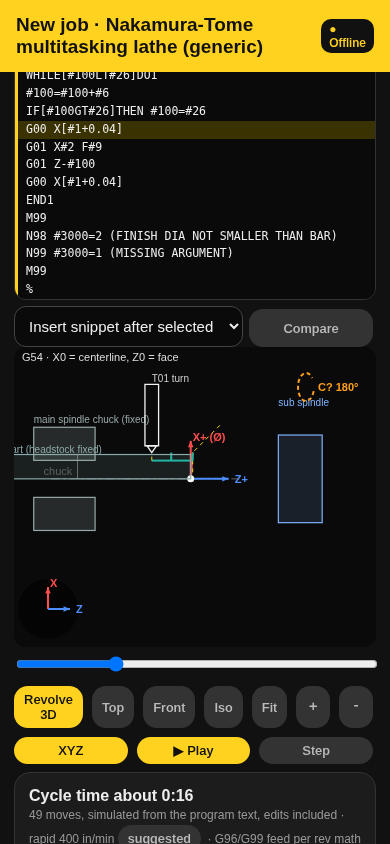
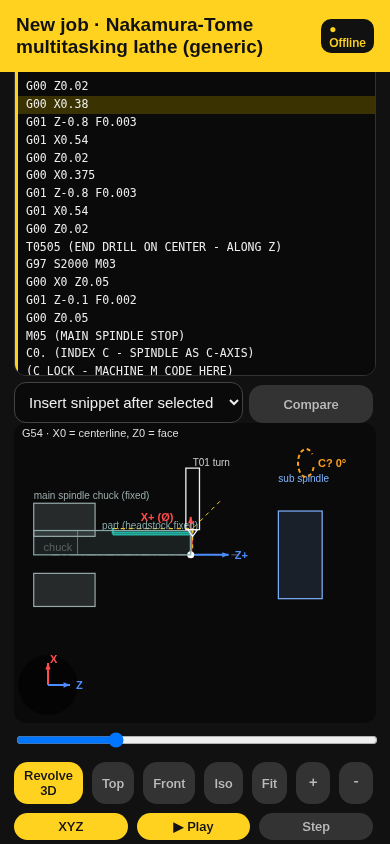
Round 15: NT full-length roughing, own buttons, chuck grip, X+ label off sub spindle, ui-test11, shots 37/38/40

Changed region(s): [[0.0308, 0.0616, 0.9846, 0.7393], [0.0308, 0.7701, 0.9846, 1.0], [0.8, 0.2773, 0.8615, 0.3081]]

diff --git a/index.html b/index.html
@@ -70,7 +70,7 @@ function parse(t){t=t.toLowerCase().replace(/\b(one|two|three|four|five|six|seve
  return{op,p,text:t}}
 const OPN={bolt:'Bolt circle',grid:'Hole grid',face:'Face mill',lturn:'OD turn',lface:'Lathe face',lgroove:'OD groove',ldrill:'Center drill'};
 function nw(){$('#ttl').textContent='New job · '+(S.m[S.cur]||{name:'?'}).name;
-V.innerHTML=`<textarea id="q" rows="3" placeholder="${isL()?'e.g. G54 T1 turn 2.0 bar to 1.5 dia 3 long z0 0':'e.g. G54 T2 6 hole bolt circle 3.0 dia center x0 y0 z0 0 start 15 0.5 deep peck'}">${J?J.text:''}</textarea><div class="row" style="margin-top:6px">${isSw()?`<button class="chip y" onclick="ex('G54 swiss turn 0.5 bar to 0.375 dia 0.8 long z0 0 flat 0.05 deep 0.3 long cross drill 0.125 at z-0.55 0.15 deep center drill 0.1 deep part off 0.062')">Combined sample</button><button class="chip gr" onclick="ex('G54 swiss turn 0.5 bar to 0.375 dia 0.8 long z0 0 part off 0.062')">Turn + part-off</button>`:isL()?`<button class="chip gr" onclick="ex('G54 T1 turn 2.0 bar to 1.5 dia 3 long z0 0 chamfer 0.03')">OD turn</button><button class="chip gr" onclick="ex('G54 T1 face 0.05 off 2.0 bar z0 0')">Face</button><button class="chip gr" onclick="ex('G54 T3 groove 0.25 wide 0.1 deep at z-1.0 2.0 bar insert 0.125 z0 0')">Groove</button><button class="chip gr" onclick="ex('G54 T5 center drill 0.5 deep peck 0.1 z0 0')">Drill</button>`:`<button class="chip gr" onclick="ex('G54 T2 6 hole bolt circle 3.0 dia center x0 y0 z0 0 start 15 0.5 deep peck 0.1')">Bolt circle</button><button class="chip gr" onclick="ex('G54 T2 3 x 4 grid 0.75 spacing start x0 y0 z0 0 0.4 deep drill')">Grid</button><button class="chip gr" onclick="ex('G54 T6 rigid tap 1/4-20 4 hole bolt circle 2.0 dia center x0 y0 z0 0 start 45 0.5 deep 600 rpm')">Tap</button><button class="chip gr" onclick="ex('G54 T2 index 4 faces hole x1.0 y0 z0 0.75 0.3 deep drill')">4th axis</button><button class="chip gr" onclick="ex('G54 T20 probe bore 2.0 dia center x0 y0 probe z -0.25 tip 0.157 write to g55')">Probe</button><button class="chip gr" onclick="ex('G54 T1 face 4 x 3 with 2 cutter take off 0.06 stepdown 0.02 stepover 70 z0 0')">Face</button>`}</div><button class="btn" onclick="go()">Make my macro</button><div id="out"></div>`}
+V.innerHTML=`<textarea id="q" rows="3" placeholder="${isL()?'e.g. G54 T1 turn 2.0 bar to 1.5 dia 3 long z0 0':'e.g. G54 T2 6 hole bolt circle 3.0 dia center x0 y0 z0 0 start 15 0.5 deep peck'}">${J?J.text:''}</textarea><div class="row" style="margin-top:6px">${isNT()?`<button class="chip y" onclick="ex('G54 multitask turn 1.0 bar to 0.75 dia 1.5 long z0 0 flat 0.08 deep 0.5 long cross drill 0.25 at z-1.0 0.2 deep center drill 0.2 deep part off 0.125')">Multitask sample</button><button class="chip gr" onclick="ex('G54 multitask turn 1.0 bar to 0.75 dia 1.5 long z0 0 part off 0.125')">Turn + transfer</button>`:isSw()?`<button class="chip y" onclick="ex('G54 swiss turn 0.5 bar to 0.375 dia 0.8 long z0 0 flat 0.05 deep 0.3 long cross drill 0.125 at z-0.55 0.15 deep center drill 0.1 deep part off 0.062')">Combined sample</button><button class="chip gr" onclick="ex('G54 swiss turn 0.5 bar to 0.375 dia 0.8 long z0 0 part off 0.062')">Turn + part-off</button>`:isL()?`<button class="chip gr" onclick="ex('G54 T1 turn 2.0 bar to 1.5 dia 3 long z0 0 chamfer 0.03')">OD turn</button><button class="chip gr" onclick="ex('G54 T1 face 0.05 off 2.0 bar z0 0')">Face</button><button class="chip gr" onclick="ex('G54 T3 groove 0.25 wide 0.1 deep at z-1.0 2.0 bar insert 0.125 z0 0')">Groove</button><button class="chip gr" onclick="ex('G54 T5 center drill 0.5 deep peck 0.1 z0 0')">Drill</button>`:`<button class="chip gr" onclick="ex('G54 T2 6 hole bolt circle 3.0 dia center x0 y0 z0 0 start 15 0.5 deep peck 0.1')">Bolt circle</button><button class="chip gr" onclick="ex('G54 T2 3 x 4 grid 0.75 spacing start x0 y0 z0 0 0.4 deep drill')">Grid</button><button class="chip gr" onclick="ex('G54 T6 rigid tap 1/4-20 4 hole bolt circle 2.0 dia center x0 y0 z0 0 start 45 0.5 deep 600 rpm')">Tap</button><button class="chip gr" onclick="ex('G54 T2 index 4 faces hole x1.0 y0 z0 0.75 0.3 deep drill')">4th axis</button><button class="chip gr" onclick="ex('G54 T20 probe bore 2.0 dia center x0 y0 probe z -0.25 tip 0.157 write to g55')">Probe</button><button class="chip gr" onclick="ex('G54 T1 face 4 x 3 with 2 cutter take off 0.06 stepdown 0.02 stepover 70 z0 0')">Face</button>`}</div><button class="btn" onclick="go()">Make my macro</button><div id="out"></div>`}
 function ex(s){$('#q').value=s;go()}
 function go(){const j=req((isL()?parseL:parse)($('#q').value));if(!j){$('#out').innerHTML=`<div class="ok bad">${isL()?'Try “turn”, “face”, “groove”, or “center drill”.':'Try “bolt circle”, “grid”, or “face mill”.'}</div>`;return}J={...j,date:Date.now(),edits:{}};show()}
 function esc(s){return s.replace(/&/g,'&amp;').replace(/</g,'&lt;')}
@@ -575,7 +575,7 @@ const C3={X:'#ff4d4d',Y:'#3ddc84',Z:'#4d8dff'};
 const _draw7=draw;draw=function(){_draw7();if(!J||!cv)return;const flat=J.lathe&&!view.rev,o=origin();
  const sc=(J.lathe&&flat?view.fs:view.s)||40,len=Math.max(0.3,38/sc);
  if(!view.hideTriad){
-  if(flat){arrow([0,0,o[2]],[len,0,o[2]],C3.X,'X+ (Ø)');arrow([0,0,o[2]],[0,0,o[2]+len],C3.Z,'Z+')}
+  if(flat){arrow([0,0,o[2]],[len,0,o[2]],C3.X,J.swiss?'':'X+ (Ø)');if(J.swiss){const q=P([len,0,o[2]]);ctx.fillStyle=C3.X;ctx.font='bold 11px -apple-system,sans-serif';ctx.fillText('X+ (Ø)',q[0]-50,q[1]+4)};arrow([0,0,o[2]],[0,0,o[2]+len],C3.Z,'Z+')}
   else if(J.lathe){arrow([0,0,o[2]],[len,0,o[2]],C3.X,'X+');arrow([0,0,o[2]],[0,len,o[2]],C3.Y,'Y+');arrow([0,0,o[2]],[0,0,o[2]+len],C3.Z,'Z+')}
   else{arrow(o,[o[0]+len,o[1],o[2]],C3.X,'X+');arrow(o,[o[0],o[1]+len,o[2]],C3.Y,'Y+');arrow(o,[o[0],o[1],o[2]+len],C3.Z,'Z+')}
   const q=P(J.lathe?[0,0,o[2]]:o);ctx.fillStyle='#fff';ctx.beginPath();ctx.arc(q[0],q[1],3.5,0,7);ctx.fill();
@@ -707,7 +707,7 @@ function sw2(){const M=J.M||[],n=Math.min(view.n,M.length),m=M[n-1],t=m?m.b:[J.l
  const box=(r0,r1,z0,z1,c,f)=>{ctx.strokeStyle=c;ctx.fillStyle=f;const a=P([r0,0,z0]),b=P([r1,0,z1]);const x=Math.min(a[0],b[0]),y=Math.min(a[1],b[1]),w=Math.abs(b[0]-a[0]),h=Math.abs(b[1]-a[1]);ctx.fillRect(x,y,w,h);ctx.strokeRect(x,y,w,h)};
  const lab=(p,s,c)=>{const q=P(p);ctx.fillStyle=c;ctx.font='10px -apple-system,sans-serif';ctx.fillText(s,q[0],q[1])};
  ctx.setLineDash([]);ctx.lineWidth=1.2;
- if(flat){const L=(J.p.Length||{v:1}).v;box(0,R,-L-1.2,0,'#8aa','#8aa2');lab([R+0.02,0,-L-1.1],J.nt?'part (headstock fixed)':'bar (slides in Z)','#8aa');
+ if(flat){const L=(J.p.Length||{v:1}).v;J.nt?(box(0,R,-J.lb.L-0.45,0,'#8aa','#8aa2'),lab([R+0.02,0,-J.lb.L+0.25],'part (headstock fixed)','#8aa')):(box(0,R,-L-1.2,0,'#8aa','#8aa2'),lab([R+0.02,0,-L-1.1],'bar (slides in Z)','#8aa'));
   if(J.nt){const Lc=J.lb.L;box(R-0.06,R+0.28,-Lc-0.45,-Lc+0.18,'#9aa','#9aa3');box(-R-0.28,-R+0.06,-Lc-0.45,-Lc+0.18,'#9aa','#9aa3');lab([R+0.32,0,-Lc-0.45],'main spindle chuck (fixed)','#9aa')}else{box(R+0.01,R+0.3,zb-0.35,zb,'#c9a227','#c9a22733');box(-R-0.3,-R-0.01,zb-0.35,zb,'#c9a227','#c9a22733');lab([R+0.34,0,zb-0.35],'guide bushing (fixed)','#c9a227');
   }const sub=sv('Sub spindle');if(sub&&!/^no|^none|^0/i.test(String(sub.v))){const tt0=swTool(m?m.l:0),zs=tt0==2?0.02:J.nt?0.9:Math.max(0.6,t[2]+0.6);box(-R-0.2,R+0.2,zs,zs+0.45,'#7fb3ff','#7fb3ff22');lab([R+0.5,0,zs],'sub spindle'+(tt0==2?' (pick-off)':''),'#7fb3ff')}}
  const tt=swTool(m?m.l:0);ctx.strokeStyle='#f2f2f2';ctx.lineWidth=1.3;const o=(dr,dz)=>[t[0]+dr,0,t[2]+dz];
@@ -726,11 +726,13 @@ function sw2(){const M=J.M||[],n=Math.min(view.n,M.length),m=M[n-1],t=m?m.b:[J.l
 PRESETS['Multitasking lathes']=['Nakamura-Tome multitasking lathe (generic)'];
 const NTS=[['C-axis','yes',1],['Y-axis','yes',1],['Live tools','yes',1],['Live tool M-code','M51 (check manual)',1],['Sub spindle','yes',1],['Turrets','1 upper (check)',1]];
 const _pick14=pick;pick=function(n,g){if(g=='Multitasking lathes'){S.m.push(mk(n,'multitasking lathe'));const m=S.m.at(-1);NTS.forEach(([k,v,c])=>m.s.push({k,v,st:c?'confirm':'suggested'}));m.opt={macroB:1};m.tools=JSON.parse(JSON.stringify((S.m[0]||{}).tools||[]));save();edit(S.m.length-1);return}_pick14(n,g)};
-const isNT=()=>/multitask/i.test((S.m[S.cur]||{}).type||'');
+function isNT(){return /multitask/i.test((S.m[S.cur]||{}).type||'')}
+const _isNTold=()=>/multitask/i.test((S.m[S.cur]||{}).type||'');
 const _genS14=genS;genS=function(j){const r=_genS14(j);if(!isNT())return r;j.nt=1;const c=[];r.code.forEach(x=>{x=x.replace('SWISS SAMPLE','MULTITASKING SAMPLE').replace(/\(GENERIC SLIDING-HEADSTOCK[^)]*\)/,'(GENERIC FIXED-HEADSTOCK TURNING CENTER FANUC-STYLE - X IN DIAMETER)').replace('GANG: OD TURNING','TURRET: OD TURN + FACE').replace('TURN IN SHORT SEGMENTS NEAR THE BUSHING','OD ROUGH IN Z STEPS').replace(/\(GANG/g,'(TURRET');
  if(/^T0202/.test(x)){c.push('(TRANSFER: SUB SPINDLE SYNC, ADVANCE, CLAMP - MACHINE M CODES HERE)');x='T0202 (PART-OFF BLADE - TRANSFER TO SUB)'}c.push(x);
  if(/^G00 X.* Z0\.02$/.test(x)&&c.filter(y=>/FACE TO Z0/.test(y)).length==0){c.push(`G01 X-0.03 Z0 F${f4(j.p['Feed/rev'].v)} (FACE TO Z0)`);c.push('G00 Z0.02');c.push(x)}});
- r.code=c;return r};
+ const o=[];let skip=0;c.forEach(x=>{if(/^O9500/.test(x))skip=1;if(skip&&x=='%')skip=0;if(skip)return;if(/^G65 P9500/.test(x)){const st=j.p['Bar Ø'].v,fin=j.p['Finish Ø'].v,len=j.p.Length.v,F=f4(j.p['Feed/rev'].v);o.push('(OD ROUGH - FULL-LENGTH PASSES, 0.04 DIA PER PASS)');let d=st;while(d>fin+1e-6){d=Math.max(fin,d-0.04);o.push(`G00 X${f4(d)}`);o.push(`G01 Z-${f4(len)} F${F}`);o.push(`G01 X${f4(st+0.04)}`);o.push('G00 Z0.02')}return}o.push(x)});
+ r.code=o;return r};
 const _checks14=checks;checks=function(j){let c=_checks14(j);if(!(j&&j.nt))return c;c=c.filter(x=>!/bushing/i.test(x[0]));const ok=k=>{const x=sv(k);return x&&x.st=='user'};c.push(['Y-axis confirmed (flat uses Y)',ok('Y-axis')],['Sub spindle confirmed for transfer',ok('Sub spindle')]);return c};
 function ntFit(){const R=J.lb.R,L=J.lb.L,W=cv.clientWidth-20;const z0=-L-0.55,z1=0.9+0.45+0.45,r1=R+0.95,r0=-R-0.3;view.fs=Math.min(W/(z1-z0),270/(r1-r0));view.fz0=z0;view.fz=z1;view.fr=r1;view.fx=10;view.px=0;view.py=0;draw()}
 if('serviceWorker'in navigator&&location.protocol!='file:')navigator.serviceWorker.register('sw.js');

diff --git a/test/ui-test11.html b/test/ui-test11.html
@@ -1,0 +1,13 @@
+<!doctype html><body><pre id="o"></pre><iframe id="f" src="../index.html?v=19" style="width:390px;height:844px"></iframe><script>
+const out=[],log=(n,ok)=>out.push((ok?'PASS ':'FAIL ')+n);let first=1;
+f.onload=()=>{const w=f.contentWindow;if(first){first=0;w.localStorage.clear();w.location.reload();return}
+ setTimeout(()=>{const d=w.document,E=x=>w.eval(x);try{
+  w.addM();log('NT preset listed',/Nakamura-Tome multitasking lathe \(generic\)/.test(d.body.textContent));
+  w.pick('Nakamura-Tome multitasking lathe (generic)','Multitasking lathes');const m=E('S.m.at(-1)');log('NT red confirms',['C-axis','Y-axis','Live tools','Sub spindle'].every(k=>m.s.find(x=>x.k==k).st=='confirm'));
+  E('S.cur=S.m.length-1');w.tab('new');log('NT own buttons',/Multitask sample/.test(d.body.textContent));
+  w.ex('G54 multitask turn 1.0 bar to 0.75 dia 1.5 long z0 0 flat 0.08 deep 0.5 long cross drill 0.25 at z-1.0 0.2 deep center drill 0.2 deep part off 0.125');
+  const t=E("txt().join('\\n')");log('full-length roughing, no Swiss sub',/FULL-LENGTH PASSES/.test(t)&&!/O9500/.test(t)&&/G01 Z-1\.5\b/.test(t));
+  log('face + transfer',/FACE TO Z0/.test(t)&&/TRANSFER/.test(t)&&/FIXED-HEADSTOCK/.test(t));
+  log('sim ok',!E('J.run.err')&&E('J.nt')==1);const cl=d.querySelector('#cl').textContent;log('NT checks',/Y-axis confirmed/.test(cl)&&/Sub spindle confirmed/.test(cl)&&!/bushing/i.test(cl));
+ }catch(e){out.push('ERROR '+e.message+' '+(e.stack||'').split('\n')[1])}o.textContent=out.join('\n')},800)};
+</script></body>

diff --git a/test/ui-test5.html b/test/ui-test5.html
@@ -1,4 +1,4 @@
-<!doctype html><body><pre id="o"></pre><iframe id="f" src="../index.html?v=18" style="width:390px;height:844px"></iframe><script>
+<!doctype html><body><pre id="o"></pre><iframe id="f" src="../index.html?v=19" style="width:390px;height:844px"></iframe><script>
 const out=[],log=(n,ok)=>out.push((ok?'PASS ':'FAIL ')+n);let first=1;
 f.onload=()=>{const w=f.contentWindow;if(first){first=0;w.localStorage.clear();w.location.reload();return}
  setTimeout(async()=>{const d=w.document,E=x=>w.eval(x),cl=()=>d.querySelector('#cl').textContent;w.confirm=()=>true;try{

diff --git a/test/shots7.html b/test/shots7.html
@@ -1,4 +1,4 @@
-<!doctype html><body style="margin:0;background:#111"><iframe id="f" src="../index.html?v=18" style="width:390px;height:1500px;border:0"></iframe><script>
+<!doctype html><body style="margin:0;background:#111"><iframe id="f" src="../index.html?v=19" style="width:390px;height:1500px;border:0"></iframe><script>
 let first=1;const job=new URLSearchParams(location.search);
 f.onload=()=>{const w=f.contentWindow;if(first){first=0;w.localStorage.clear();w.location.reload();return}
  setTimeout(()=>{const E=x=>w.eval(x),k=job.get('k');w.confirm=()=>true;

diff --git a/test/ui-test6.html b/test/ui-test6.html
@@ -1,4 +1,4 @@
-<!doctype html><body><pre id="o"></pre><iframe id="f" src="../index.html?v=18" style="width:390px;height:844px"></iframe><script>
+<!doctype html><body><pre id="o"></pre><iframe id="f" src="../index.html?v=19" style="width:390px;height:844px"></iframe><script>
 const out=[],log=(n,ok)=>out.push((ok?'PASS ':'FAIL ')+n);let first=1;
 f.onload=()=>{const w=f.contentWindow;if(first){first=0;w.localStorage.clear();w.location.reload();return}
  setTimeout(async()=>{const d=w.document,E=x=>w.eval(x);w.confirm=()=>true;try{

diff --git a/test/ui-test4.html b/test/ui-test4.html
@@ -1,4 +1,4 @@
-<!doctype html><body><pre id="o"></pre><iframe id="f" src="../index.html?v=18" style="width:390px;height:844px"></iframe><script>
+<!doctype html><body><pre id="o"></pre><iframe id="f" src="../index.html?v=19" style="width:390px;height:844px"></iframe><script>
 const out=[],log=(n,ok)=>out.push((ok?'PASS ':'FAIL ')+n);let first=1;
 f.onload=()=>{const w=f.contentWindow;if(first){first=0;w.localStorage.clear();w.location.reload();return}
  setTimeout(()=>{const d=w.document,E=x=>w.eval(x);w.confirm=()=>true;try{

diff --git a/test/ui-test8.html b/test/ui-test8.html
@@ -1,4 +1,4 @@
-<!doctype html><body><pre id="o"></pre><iframe id="f" src="../index.html?v=18" style="width:390px;height:844px"></iframe><script>
+<!doctype html><body><pre id="o"></pre><iframe id="f" src="../index.html?v=19" style="width:390px;height:844px"></iframe><script>
 const out=[],log=(n,ok)=>out.push((ok?'PASS ':'FAIL ')+n);let first=1;
 f.onload=()=>{const w=f.contentWindow;if(first){first=0;w.localStorage.clear();w.location.reload();return}
  setTimeout(()=>{const d=w.document,E=x=>w.eval(x);w.confirm=()=>true;try{

diff --git a/test/ui-test.html b/test/ui-test.html
@@ -1,4 +1,4 @@
-<!doctype html><body style="background:#fff"><pre id="o"></pre><iframe id="f" src="../index.html?v=18" style="width:390px;height:844px"></iframe><script>
+<!doctype html><body style="background:#fff"><pre id="o"></pre><iframe id="f" src="../index.html?v=19" style="width:390px;height:844px"></iframe><script>
 const out=[],log=(n,ok)=>out.push((ok?'PASS ':'FAIL ')+n);
 f.onload=()=>{const w=f.contentWindow,d=w.document;try{
  if(!window.r){window.r=1;w.localStorage.clear();w.location.reload();return}}catch(e){}

diff --git a/test/ui-test10.html b/test/ui-test10.html
@@ -1,4 +1,4 @@
-<!doctype html><body><pre id="o"></pre><iframe id="f" src="../index.html?v=18" style="width:390px;height:844px"></iframe><script>
+<!doctype html><body><pre id="o"></pre><iframe id="f" src="../index.html?v=19" style="width:390px;height:844px"></iframe><script>
 const out=[],log=(n,ok)=>out.push((ok?'PASS ':'FAIL ')+n);let first=1;
 f.onload=()=>{const w=f.contentWindow;if(first){first=0;w.localStorage.clear();w.location.reload();return}
  setTimeout(()=>{const d=w.document,E=x=>w.eval(x);try{

diff --git a/test/ui-test9.html b/test/ui-test9.html
@@ -1,4 +1,4 @@
-<!doctype html><body><pre id="o"></pre><iframe id="f" src="../index.html?v=18" style="width:390px;height:844px"></iframe><script>
+<!doctype html><body><pre id="o"></pre><iframe id="f" src="../index.html?v=19" style="width:390px;height:844px"></iframe><script>
 const out=[],log=(n,ok)=>out.push((ok?'PASS ':'FAIL ')+n);let first=1;
 f.onload=()=>{const w=f.contentWindow;if(first){first=0;w.localStorage.clear();w.location.reload();return}
  setTimeout(()=>{const d=w.document,E=x=>w.eval(x);try{

diff --git a/sw.js b/sw.js
@@ -1,2 +1,2 @@
-const C='mc-v9';self.addEventListener('install',e=>e.waitUntil(caches.open(C).then(c=>c.addAll(['./','index.html','manifest.json']))));
+const C='mc-v10';self.addEventListener('install',e=>e.waitUntil(caches.open(C).then(c=>c.addAll(['./','index.html','manifest.json']))));
 self.addEventListener('fetch',e=>e.respondWith(caches.match(e.request).then(r=>r||fetch(e.request))));
